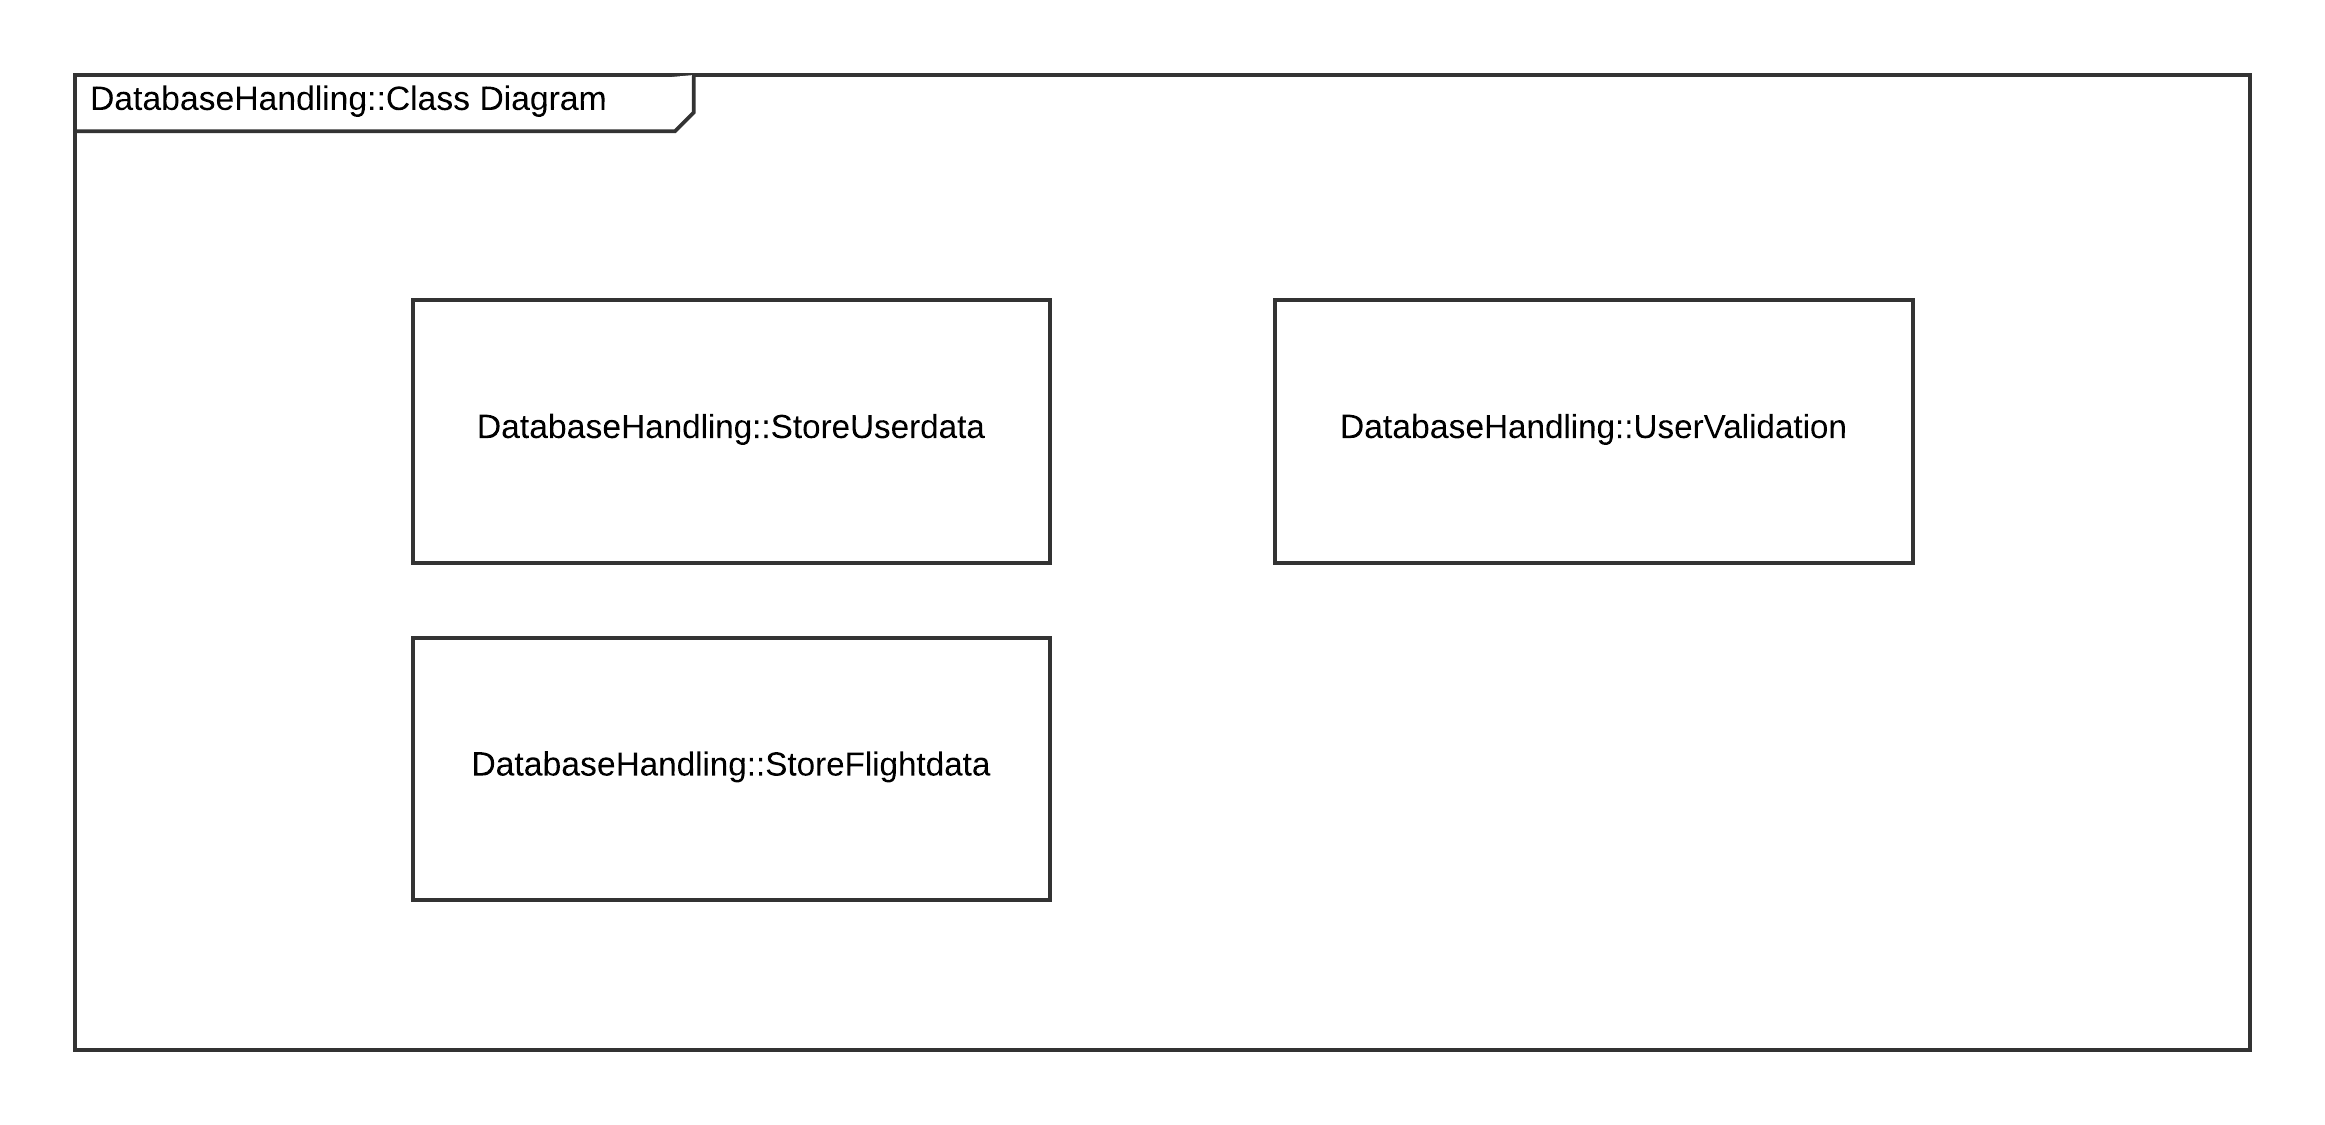
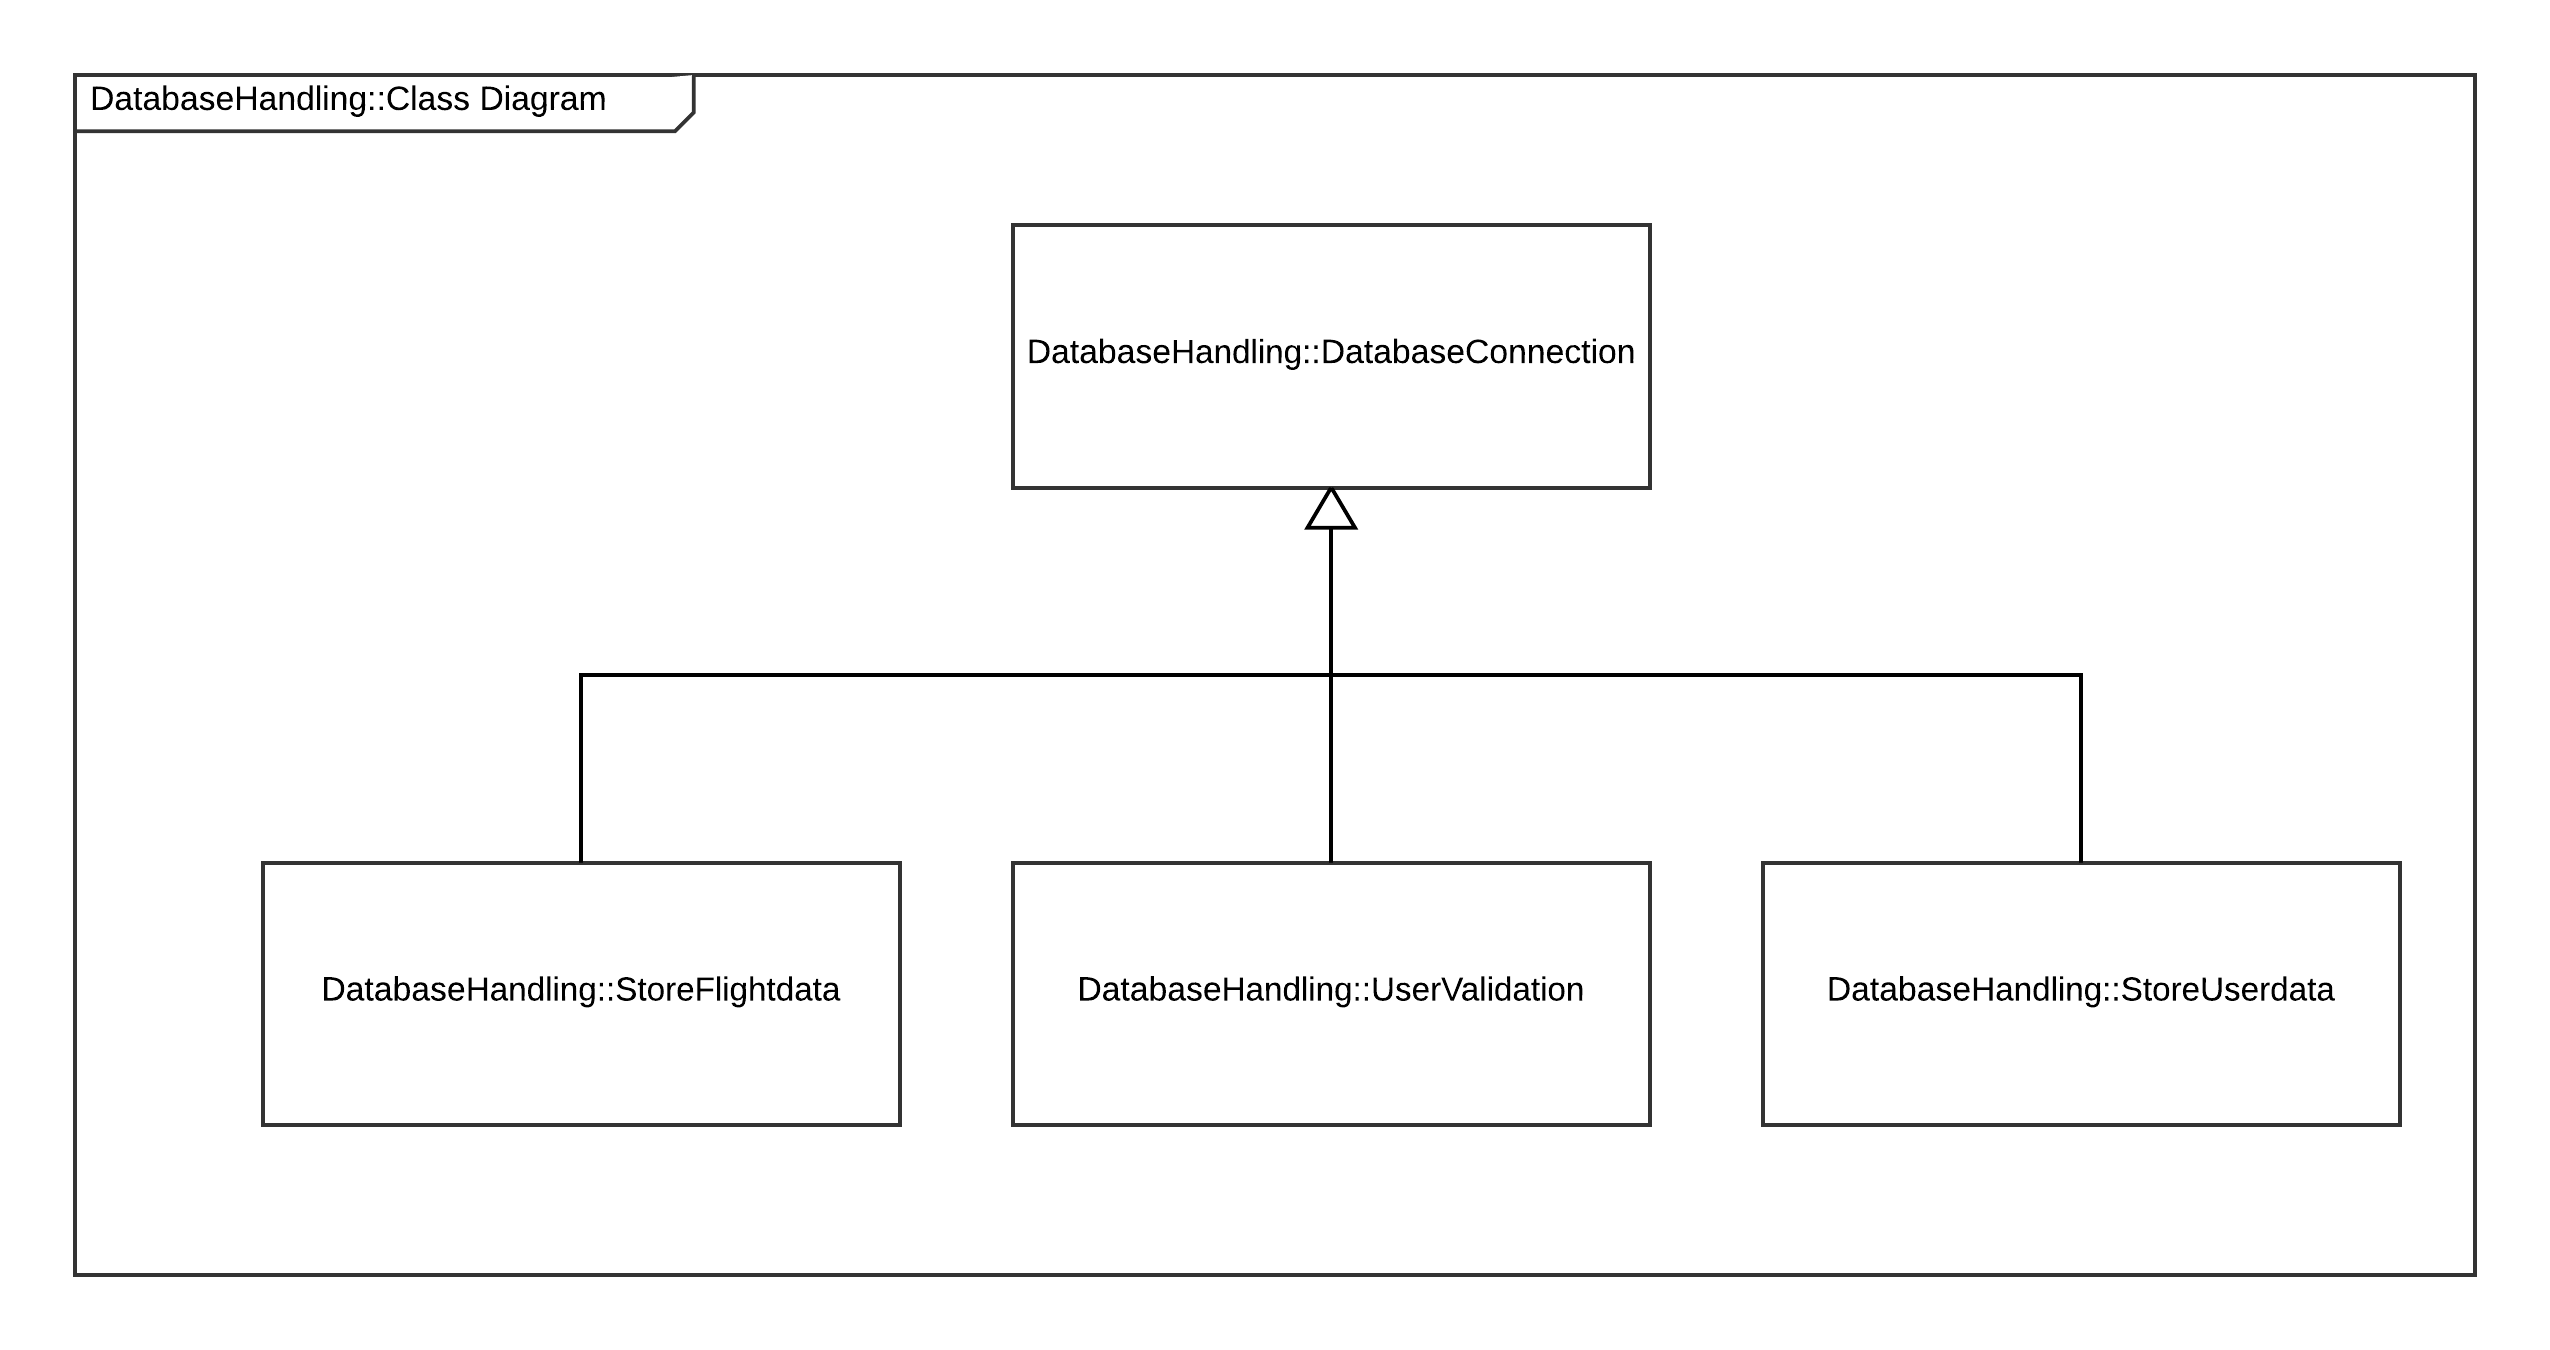
Første udkast til klasse diagram afsnit, webapplikation

diff --git a/5.Transition/Dokumentation/Systemarkitektur/Kapitler/software/klasse_diagram.tex b/5.Transition/Dokumentation/Systemarkitektur/Kapitler/software/klasse_diagram.tex
@@ -1,5 +1,6 @@
 \section{Klasse diagrammer}
 
+\subsection{FlightPathHandling klassediagram}
 På klasse diagrammet FlightPathHandling ses de tre overordnet klasser hvilket udgør pakken FlightPathHandling pakken som vist på figur \ref{fig:pakke_diagram}.
 
 \vspace{-5pt}
@@ -19,9 +20,16 @@ Klassen FlightPath bruger både FlightInfo og Coordinate klasserne til at udgør
 Coordinate klassen håndtere det GPS koordinater som brugeren ønsker dronen skal flyve til.
 
 \textbf{FlightInfo}\\
-FlightInfo klassen håndtere data om ruten så som flyvehøjde, dato for flyvning mm. 
+FlightInfo klassen håndtere data om ruten så som flyvehøjde, dato for flyvning.
+
+\textbf{FileHandling}\\
+FileHandling klassen genere en fil ud fra data'en i FlightPath som så sendes til dronen.
+
+\textbf{JSONFormat}\\
+Klassen nedarver fra FileHandling for at kunne bruges som FileHandling. Klassen genere en JSON fil som kan sendes til dronen.
 
 \newpage
+\subsection{UserHandling}
 Klasse diagrammet viser hvilket klasser som udgør UserHandling pakken som vist på figur \ref{fig:pakke_diagram}.
 
 \vspace{-5pt}
@@ -40,7 +48,8 @@ User klassen indeholder alle data om brugerne i systemet. Klassen bliver også b
 \textbf{UserValidation}\\
 UserValidation klassen har ansvaret for at validere en user når der bliver forsøgt login.\\
 
-
+\newpage
+\subsection{DatabaseHandling}
 Klasse diagrammet viser hvilket klasser som udgør DatabaseHandling pakken som vist på figur \ref{fig:pakke_diagram}.
 
 \vspace{-5pt}
@@ -53,6 +62,22 @@ Klasse diagrammet viser hvilket klasser som udgør DatabaseHandling pakken som v
 	\label{fig:DatabaseHandling_klasse_diagram}
 \end{figure}
 
+\textbf{DatabaseConnection}\\
+Superklassen DatabaseConnection har til ansvar at skabe forbindelse til databasen og lukke kommunikationen ned efter data overførelse. De andre klasser nedarver fra klassen så de kan oprette forbindelse og lukke forbindelsen.
+
+\textbf{StoreUserdata}\\
+Klassen opdatere brugerdata i databasen. Igennem nedarvningen fra superklassen DatabaseConnection kan StoreUserdata også oprette forbindelse og lukke forbindelsen igen til databasen.
+
+\textbf{StoreFlightdata}\\
+StoreFlightdata gemmer alle data omkring flyvning. Denne klasse bruges løbende under flyvning når billeder bliver modtaget og skal gemmes til en igangværende flyvning.
+
+\textbf{UserValidation}\\
+UserValidation validaere bruger ved forsøg på login og giver adgang til systemet hvis brugeren er valid.
+
+\newpage
+\subsection{CommunicationHandling}
+Klasse diagrammet viser hvilket klasser som udgør CommunicationHandling pakken som vist på figur \ref{fig:pakke_diagram}.
+
 \vspace{-5pt}
 %kommentar
 \begin{figure}[H]
@@ -62,3 +87,9 @@ Klasse diagrammet viser hvilket klasser som udgør DatabaseHandling pakken som v
 	\caption{CommunicationHandling klasse diagram}
 	\label{fig:CommunicationHandling_klasse_diagram}
 \end{figure}
+
+\textbf{Connection}\\
+Connection klassen har til ansvar for at skabe forbindelse imellem serveren og dronen.
+
+\textbf{Datatransfer}\\
+Datatransfer klassen bruger connection klassen til at oprette forbindelse til dronen inden data'en sendes. 
